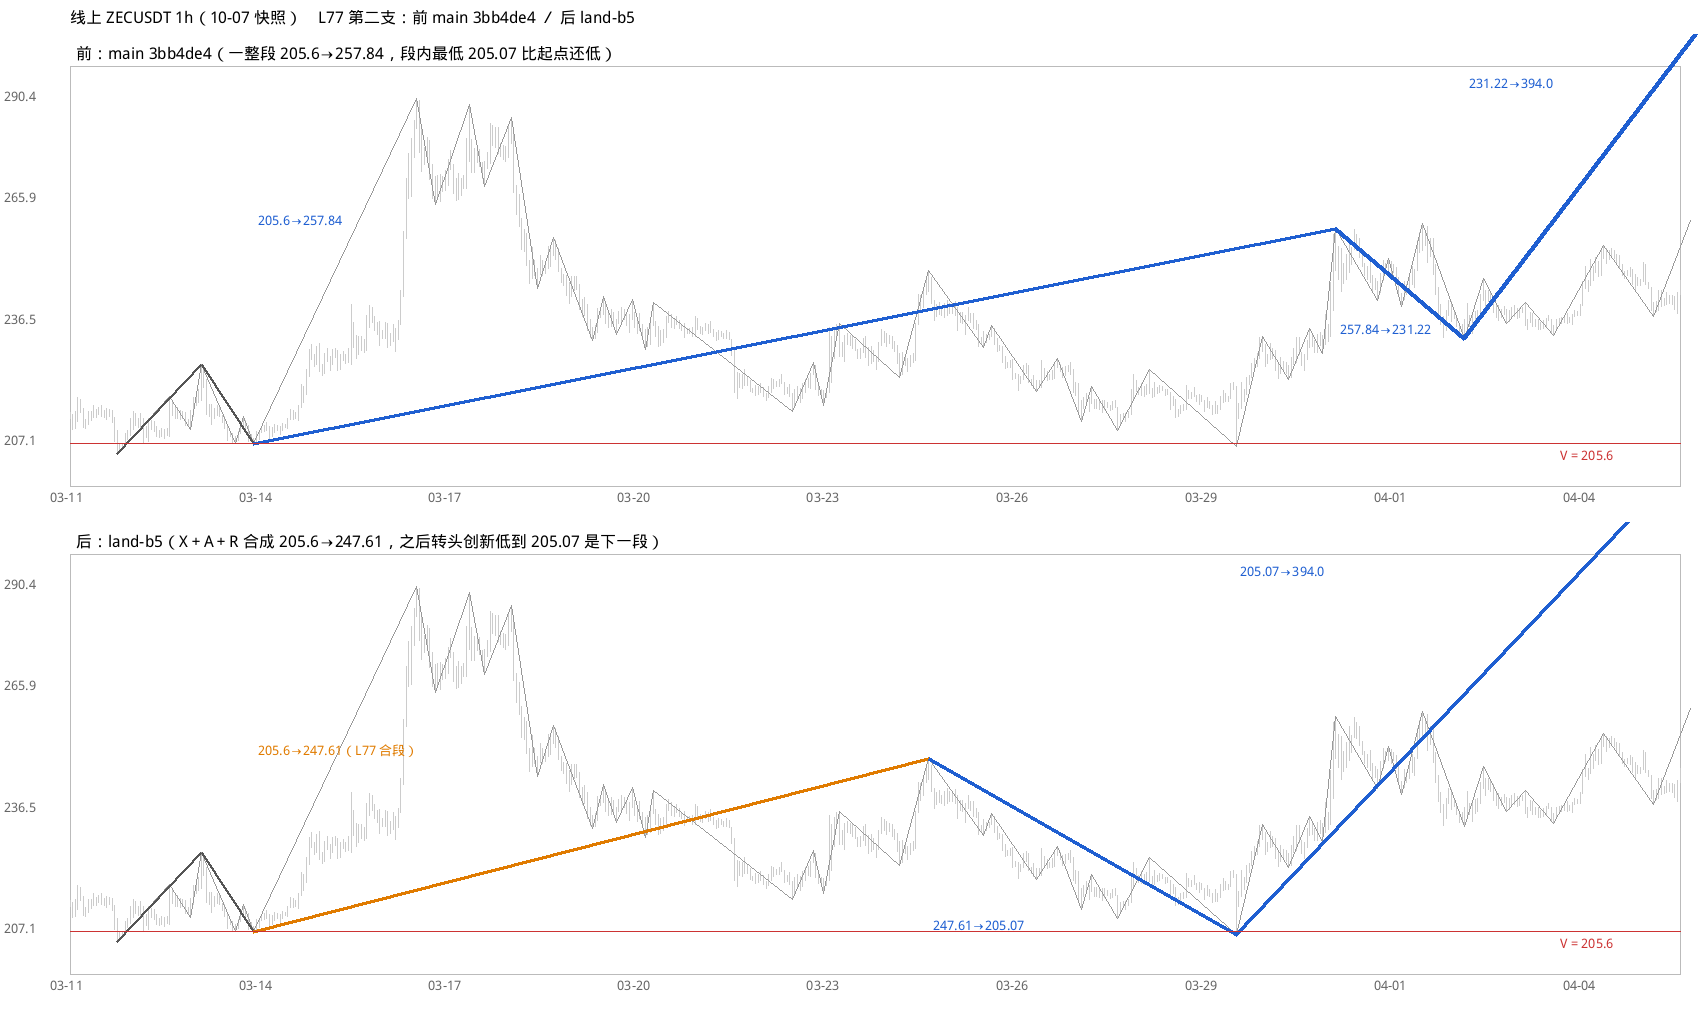
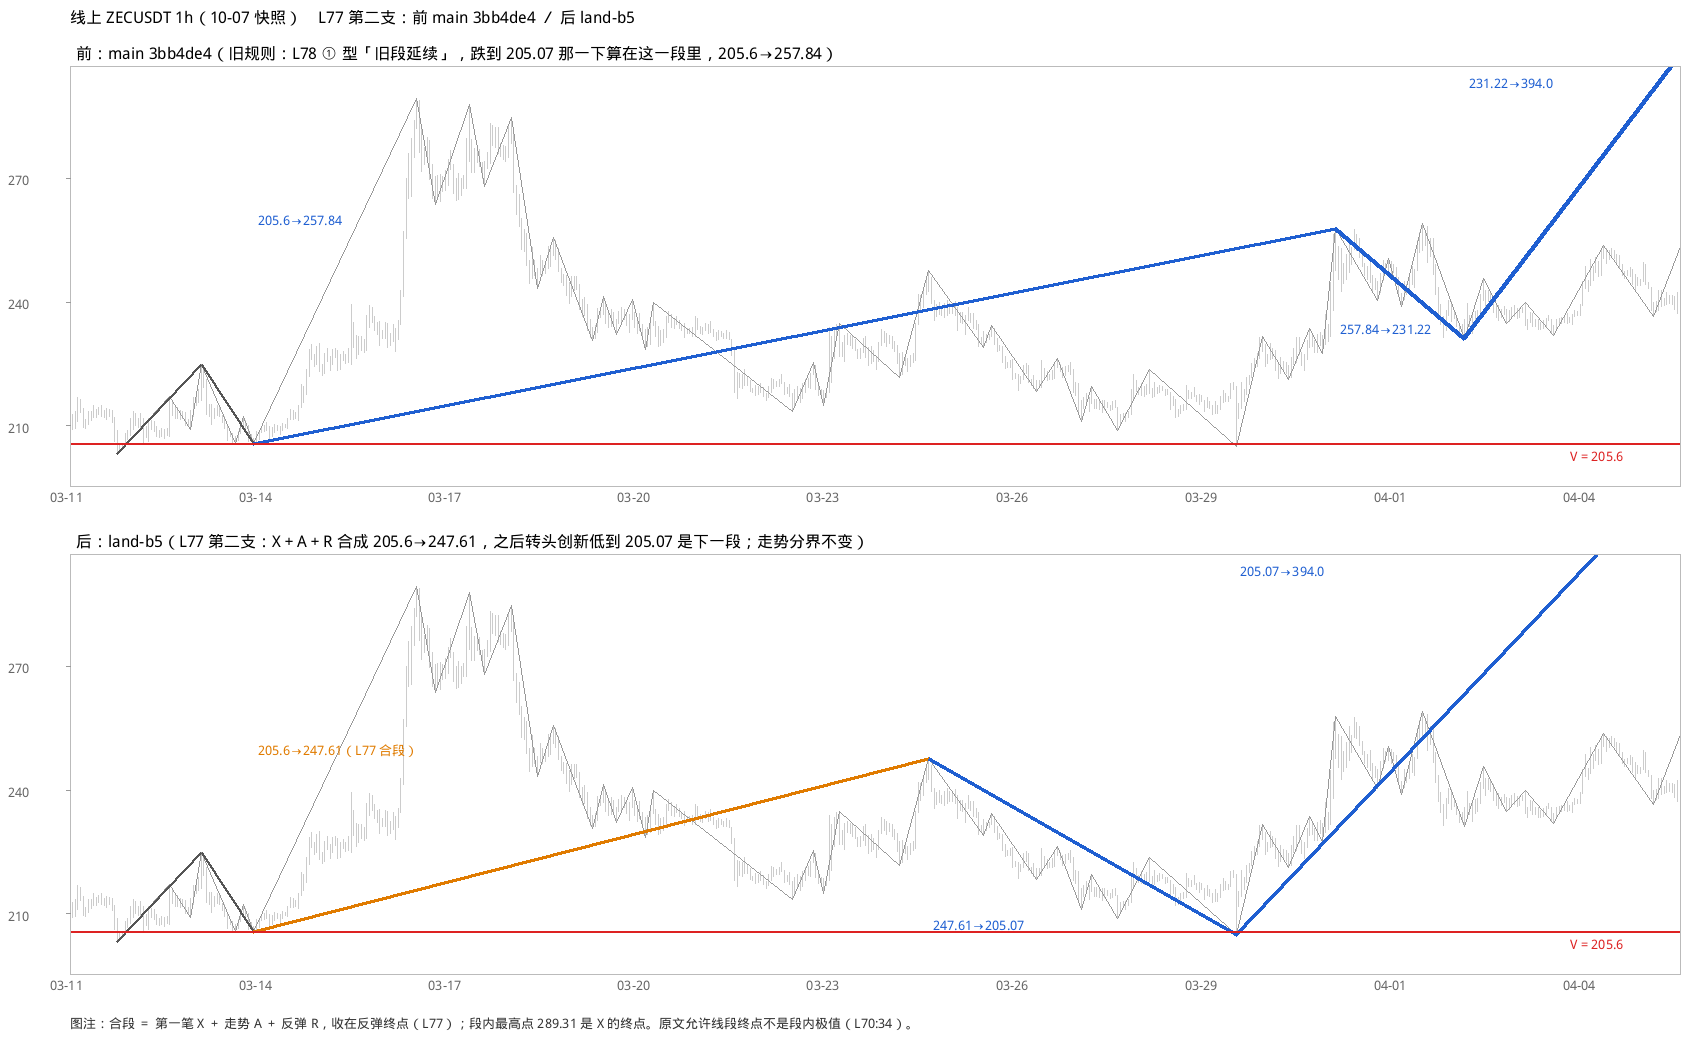
L77 前后图改：线裁在框里、V 线红、刻度取整（Iris 00:22）；图注照 Atlas；标题改成「旧规则 L78 ① 型旧段延续 → L77 合段」（Atlas 00:22，不是修错段）

diff --git a/notes/l77/fig.py b/notes/l77/fig.py
@@ -28,7 +28,7 @@ sa = {tuple(s[:2]) for s in A["segs"]}; sb = {tuple(s[:2]) for s in B["segs"]}
 sys.path[:0] = [main_root]; import config
 font = ImageFont.truetype(config._pick_font(), 16); fsm = ImageFont.truetype(config._pick_font(), 13)
 W, PH, ML, MR, MT = 1700, 470, 70, 20, 40
-img = Image.new("RGB", (W, PH * 2 + 70), "white"); d = ImageDraw.Draw(img)
+img = Image.new("RGB", (W, PH * 2 + 100), "white"); d = ImageDraw.Draw(img)
 seg = bars[b0:b1 + 1]; lo = min(b["l"] for b in seg); hi = max(b["h"] for b in seg); pad = (hi - lo) * .07; lo -= pad; hi += pad
 title = ("data/zec_1h.json（冻结夹具）" if name.startswith("data/") else "线上 ZECUSDT 1h（10-07 快照）") + "　L77 第二支：前 main 3bb4de4 ／ 后 land-b5"
 d.text((ML, 6), title, fill="black", font=font)
@@ -37,8 +37,6 @@ def panel(k, R, tag, other):
     pi = Image.new("RGB", (W, PH), "white"); q = ImageDraw.Draw(pi)       # 每格一张小图，贴回去 ⇒ 超出窗口的自然裁掉，不串到另一格
     X = lambda i: ML + (i - b0) * (W - ML - MR) / (b1 - b0); Y = lambda p: MT + (hi - p) * (PH - MT - 26) / (hi - lo)
     clampy = lambda y: max(MT, min(PH - 40, y))
-    q.rectangle([ML, MT - 8, W - MR, PH - 18], outline="#bbb")
-    q.text((ML + 6, 8), tag, fill="black", font=font)
     for i in range(b0, b1 + 1):
         b = bars[i]
         q.line([X(i), Y(b["h"]), X(i), Y(b["l"])], fill="#ccc")
@@ -53,14 +51,25 @@ def panel(k, R, tag, other):
         if changed:
             lab = "%s→%s%s" % (p0, p1, "（L77 合段）" if case == 4 else "")
             q.text((max(ML + 4, X(i0) + 4), clampy(Y(p1) - 18)), lab, fill=col, font=fsm)
+    q.line([ML, Y(205.6), W - MR, Y(205.6)], fill="#d22", width=2)
+    # 画框外的一律刷白（笔、段的线不许越出框：左边 y 轴、顶上，Iris 00:22）
+    top, bot = MT - 8, PH - 18
+    q.rectangle([0, 0, ML - 1, PH], fill="white"); q.rectangle([W - MR + 1, 0, W, PH], fill="white")
+    q.rectangle([0, 0, W, top - 1], fill="white"); q.rectangle([0, bot + 1, W, PH], fill="white")
+    q.rectangle([ML, top, W - MR, bot], outline="#bbb")
+    q.text((ML + 6, 8), tag, fill="black", font=font)
+    q.text((W - MR - 110, Y(205.6) + 3), "V = 205.6", fill="#d22", font=fsm)
     for i in range(b0, b1 + 1, 24 * 3):
         q.text((X(i) - 20, PH - 16), ts(i).strftime("%m-%d"), fill="#666", font=fsm)
-    for p in (round(lo + (hi - lo) * t, 1) for t in (0.1, 0.4, 0.7, 0.95)):
-        q.text((4, Y(p) - 7), str(p), fill="#666", font=fsm)
-    q.line([ML, Y(205.6), W - MR, Y(205.6)], fill="#c33", width=1)
-    q.text((W - MR - 120, Y(205.6) + 2), "V = 205.6", fill="#c33", font=fsm)
+    step = 30
+    p = (int(lo // step) + 1) * step
+    while p < hi:                                         # 刻度取整数（Iris 00:22）
+        q.text((8, Y(p) - 7), str(p), fill="#666", font=fsm)
+        q.line([ML - 4, Y(p), ML, Y(p)], fill="#999")
+        p += step
     img.paste(pi, (0, y0))
-panel(0, A, "前：main 3bb4de4（一整段 205.6→257.84，段内最低 205.07 比起点还低）", sb)
-panel(1, B, "后：land-b5（X＋A＋R 合成 205.6→247.61，之后转头创新低到 205.07 是下一段）", sa)
+panel(0, A, "前：main 3bb4de4（旧规则：L78 ① 型「旧段延续」，跌到 205.07 那一下算在这一段里，205.6→257.84）", sb)
+panel(1, B, "后：land-b5（L77 第二支：X＋A＋R 合成 205.6→247.61，之后转头创新低到 205.07 是下一段；走势分界不变）", sa)
+d.text((ML, 34 + 2 * (PH + 18) + 4), "图注：合段 ＝ 第一笔 X ＋ 走势 A ＋ 反弹 R，收在反弹终点（L77）；段内最高点 289.31 是 X 的终点。原文允许线段终点不是段内极值（L70:34）。", fill="#333", font=fsm)
 img.save(out)
 print("saved", out)
